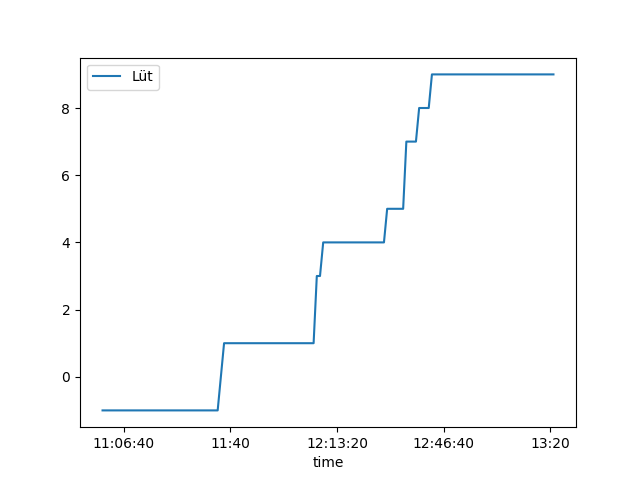
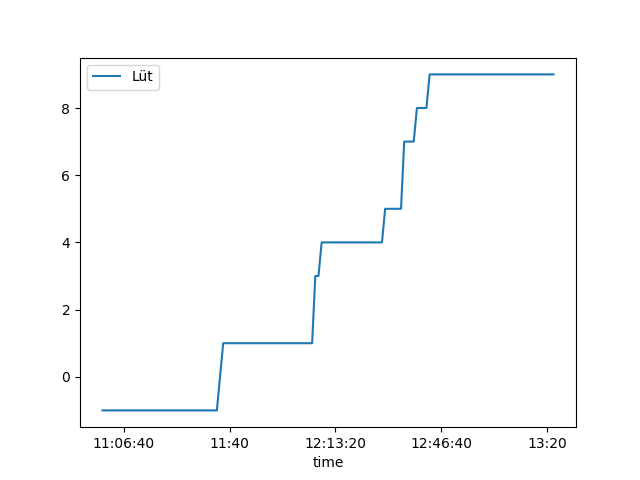
auto: new data

diff --git a/README.md b/README.md
@@ -1,4 +1,4 @@
-### Jitz grad: 9/33 (Zysti, 2021-12-28 13:21:00
+### Jitz grad: 9/33 (Zysti, 2021-12-28 13:22:00
 
 ### Hütige Vrlouf:
 ![Graph](Today.png)
